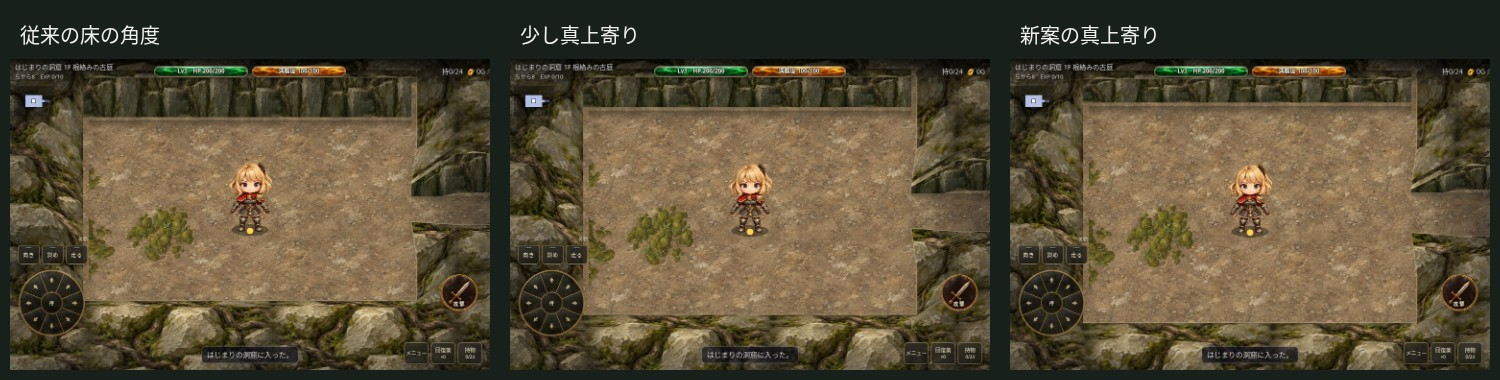
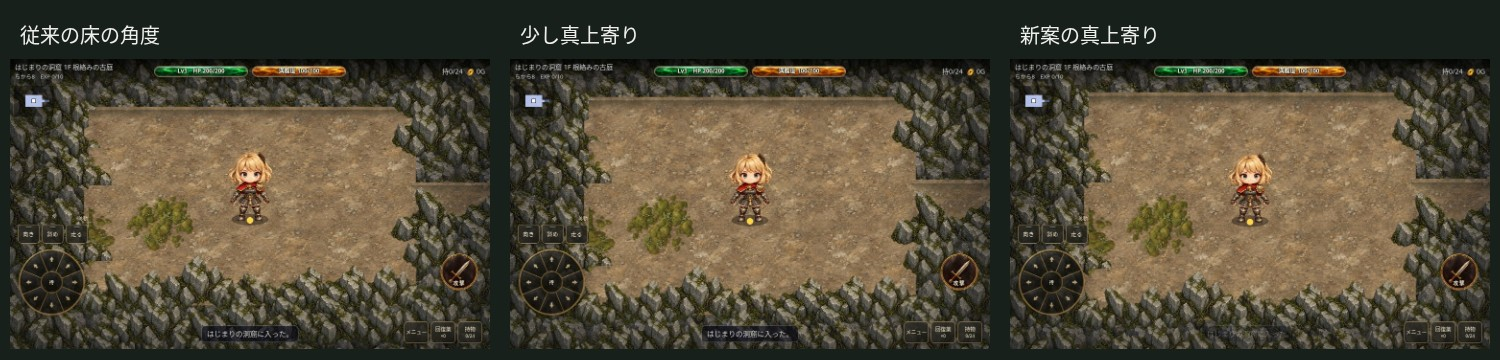
Revise garden cliffs against reference and composite foreground occlusion

diff --git a/assets/overgrown-garden.js b/assets/overgrown-garden.js
@@ -3,11 +3,12 @@
  'use strict';
  const theme=DungeonGenerator.themes.find(t=>t.id==='overgrown-garden');
  // Published view remains the default; study modes are selected in review only.
- const view={mode:'low',pitch:.82};
+ const view={mode:'low',pitch:.82,occlusion:'natural'};
  const profiles={low:{back:.24,front:.24},tall:{back:.48,front:.48},cutaway:{back:.56,front:.16},ridge:{back:.86,front:.40}};
  function configureView(patch){
   if(patch.mode!==undefined){if(!profiles[patch.mode])throw Error('unknown wall view');view.mode=patch.mode;}
   if(patch.pitch!==undefined){if(![.72,.82,.9,.94].includes(patch.pitch))throw Error('unknown ground projection');view.pitch=patch.pitch;}
+  if(patch.occlusion!==undefined){if(!['natural','fade','off'].includes(patch.occlusion))throw Error('unknown wall occlusion');view.occlusion=patch.occlusion;}
  }
  function vertexHeight(map,x,y){
   const p=profiles[view.mode],floor=(xx,yy)=>map[yy]?.[xx]!==undefined&&map[yy][xx]!==0;
@@ -26,10 +27,10 @@
  }
  function loadRidge(){
   if(art.ridgePromise)return art.ridgePromise;
-  art.ridgePromise=new Promise((resolve,reject)=>{
-   const image=new Image();image.onload=()=>{art.images.ridge=image;resolve();};image.onerror=()=>reject(Error('古庭の石積み画像を取得できません'));
-   image.src='fushigi-overgrown-garden-v1/source-art/garden-ridge.png';
-  });
+  art.ridgePromise=Promise.all(['ridge','rim'].map(key=>new Promise((resolve,reject)=>{
+   const image=new Image();image.onload=()=>{art.images[key]=image;resolve();};image.onerror=()=>reject(Error('古庭の石積み画像を取得できません: '+key));
+   image.src='fushigi-overgrown-garden-v1/source-art/garden-'+key+'.png';
+  })));
   return art.ridgePromise;
  }
  // Blend only opposing texture edges, retaining the generated painted interior.
@@ -130,47 +131,46 @@
   triangle(b,c,d,[c[0]-d[0],c[1]-d[1],c[0]-b[0],c[1]-b[1],b[0]+d[0]-c[0],b[1]+d[1]-c[1]]);
   g.restore();
  }
- function wall(g,px,py,size,h,{map,x,y}){
+ function wall(g,px,py,size,h,{map,x,y,seed=0,foreground=false}){
   const ridge=view.mode==='ridge'&&art.images.ridge;
   const f=(xx,yy)=>map[yy]?.[xx]!==undefined&&map[yy][xx]!==0;
-  const groundCorner=(vx,vy)=>{
-   let ix=0,iy=0;
-   if(ridge){
-    // Narrow recesses belong to the wall cell. Shared corner positions keep
-    // their outlines joined; the front rim no longer sits under the hero's feet.
-    if(f(vx-1,vy-1)||f(vx,vy-1))iy+=.25;
-    if(f(vx-1,vy)||f(vx,vy))iy-=.08;
-    if(f(vx-1,vy-1)||f(vx-1,vy))ix+=.12;
-    if(f(vx,vy-1)||f(vx,vy))ix-=.12;
+  if(ridge){
+   // The rejected version joined a different, magnified top texture to a row
+   // of tiny columns. Here every visible upright is one coherent generated
+   // volume, including its own top, side and transparent outline.
+   g.save();g.imageSmoothingEnabled=true;
+   if(!foreground){
+    surface(g,'soil',x,y,px,py,size,h,3);
+    const nx=f(x,y-1)?h*.18:0,sx=f(x,y+1)?h*.08:0,wx=f(x-1,y)?size*.10:0,ex=f(x+1,y)?size*.10:0;
+    g.save();g.beginPath();g.rect(px+wx,py+nx,size-wx-ex,h-nx-sx);g.clip();surface(g,'ridgeTop',x,y,px,py,size,h,2);g.restore();
    }
-   return [px+(vx-x+ix)*size,py+(vy-y+iy)*h];
-  };
-  const ground=[groundCorner(x,y),groundCorner(x+1,y),groundCorner(x+1,y+1),groundCorner(x,y+1)];
+   if(art.images.rim){
+    const image=art.images.rim,cw=image.width/2,ch=image.height/2,n=hash(x,y,seed),index=n%4;
+    const scale=.88+((n>>>5)%25)/100,w=size*1.8*scale,hh=w/1.5;
+    const dx=(((n>>>12)%21)-10)/100*size,dy=(((n>>>18)%9)-4)/100*h;
+    g.drawImage(image,(index%2+.035)*cw,(Math.floor(index/2)+.05)*ch,cw*.93,ch*.90,px+size*.5-w*.5+dx,py+h*.48-hh+dy,w,hh);
+   }
+   g.restore();return true;
+  }
+  const ground=[[px,py],[px+size,py],[px+size,py+h],[px,py+h]];
   const rises=[vertexHeight(map,x,y),vertexHeight(map,x+1,y),vertexHeight(map,x+1,y+1),vertexHeight(map,x,y+1)].map(v=>v*size*verticalProjection());
   const top=ground.map(([xx,yy],i)=>[xx,yy-rises[i]]);
   g.save();
   g.imageSmoothingEnabled=true;
   // Fill the short vertical band under the cap too: it must stay opaque when
   // adjoining a room corner or a freshly blasted opening.
-  const nearFloor=ridge&&[-1,0,1].some(dy=>[-1,0,1].some(dx=>f(x+dx,y+dy)));
-  surface(g,ridge?(nearFloor?'soil':'ridgeInterior'):'top',x,y,px,py,size,h,ridge&&nearFloor?3:4);
+  if(!foreground)surface(g,'top',x,y,px,py,size,h,4);
   if(f(x,y+1)){
-   const face=texture(ridge?'ridgeFace':'face'),span=ridge?2:4,part=face.width/span;
+   const face=texture('face'),span=4,part=face.width/span;
    const side=[top[3],top[2],ground[2],ground[3]];
    // Preserve material proportions instead of squeezing an entire tall block
    // into a thin horizontal strip.
-   quad(g,face,(x%span)*part,ridge?64:32,part,64,side);
+   quad(g,face,(x%span)*part,32,part,64,side);
    const shade=g.createLinearGradient(0,py+h-Math.max(rises[2],rises[3]),0,py+h);shade.addColorStop(0,'#18221835');shade.addColorStop(1,'#10180e95');
    g.fillStyle=shade;g.beginPath();g.moveTo(...side[0]);for(const pt of side.slice(1))g.lineTo(...pt);g.closePath();g.fill();
   }
-  const tile=texture(ridge?'ridgeTop':'top'),part=tile.width/4;
+  const tile=texture('top'),part=tile.width/4;
   quad(g,tile,(x%4)*part,(y%4)*part,part,part,top);
-  if(ridge&&f(x,y+1)){
-   // A shallow crown distinguishes the standing edge from the wall's rocky
-   // interior. Adjacent cells share the same world-space band and vertices.
-   const cap=texture('ridgeCap'),depth=h*.2;
-   quad(g,cap,(x%2)*128,0,128,24,[[top[3][0],top[3][1]-depth],[top[2][0],top[2][1]-depth],top[2],top[3]]);
-  }
   // Restrict edge accents to actual exposed boundaries, never tile seams.
   g.lineWidth=Math.max(1,size*.018);g.strokeStyle='#c4b99890';g.beginPath();
   if(f(x,y-1)){g.moveTo(...top[0]);g.lineTo(...top[1]);}
@@ -178,6 +178,30 @@
   if(f(x,y+1)){g.moveTo(...top[3]);g.lineTo(...top[2]);}
   g.stroke();
   g.restore();return true;
+ }
+ const foregroundEnabled=()=>view.mode==='ridge'&&view.occlusion!=='off'&&!!art.images.rim;
+ function foregroundTiles({map,x0,x1,y0,y1,subjects}){
+  if(!foregroundEnabled())return [];
+  const tiles=[];
+  for(let y=y0;y<=y1;y++)for(let x=x0;x<=x1;x++){
+   if(map[y]?.[x]!==0)continue;
+   if(subjects.some(e=>Math.abs(x-(e.vx??e.x))<1.8&&y>=(e.vy??e.y)-1&&y<=(e.vy??e.y)+2))tiles.push({x,y,depth:y+.48});
+  }
+  return tiles;
+ }
+ let fadeLayer;
+ function drawForeground(g,{map,x,y,size,camX,camY,seed,observer}){
+  const h=size*view.pitch,px=camX+x*size,py=camY+y*h;
+  if(view.occlusion!=='fade'||Math.abs(x-observer.vx)>1.5||y<observer.vy||y>observer.vy+2){wall(g,px,py,size,h,{map,x,y,seed,foreground:true});return;}
+  if(!fadeLayer)fadeLayer=document.createElement('canvas');
+  const extent=Math.ceil(size*3);if(fadeLayer.width!==extent)fadeLayer.width=fadeLayer.height=extent;
+  const fg=fadeLayer.getContext('2d');fg.clearRect(0,0,extent,extent);
+  const ox=px-size,oy=py-size*1.5;
+  wall(fg,px-ox,py-oy,size,h,{map,x,y,seed,foreground:true});
+  fg.save();fg.globalCompositeOperation='destination-out';
+  const cx=camX+(observer.vx+.5)*size-ox,cy=camY+(observer.vy+.9)*h-size*.45-oy;
+  const fade=fg.createRadialGradient(cx,cy,size*.10,cx,cy,size*.85);fade.addColorStop(0,'#000a');fade.addColorStop(1,'#0000');
+  fg.fillStyle=fade;fg.fillRect(0,0,extent,extent);fg.restore();g.drawImage(fadeLayer,ox,oy);
  }
  const original=CaveTerrain.draw;
  CaveTerrain.draw=function(g,key,px,py,size,options){
@@ -202,5 +226,5 @@
  };
  // Both the normal floor rotation and review catalog include the garden.
  DungeonGenerator.locations=DungeonGenerator.themes;
- root.OvergrownGarden={theme,plan,cell,art,load,loadRidge,texture,view,profiles,configureView,vertexHeight};
+ root.OvergrownGarden={theme,plan,cell,art,load,loadRidge,texture,view,profiles,configureView,vertexHeight,foregroundEnabled,foregroundTiles,drawForeground};
 })(typeof window==='undefined'?globalThis:window);

diff --git a/fushigi-overgrown-garden-v1/index.html b/fushigi-overgrown-garden-v1/index.html
@@ -3,7 +3,7 @@
 <style>
 body{margin:0;background:#141b18;color:#e5dfcd;font:14px system-ui,sans-serif;display:flex;flex-direction:column;height:100dvh}header{padding:10px;display:flex;gap:8px;align-items:center;flex-wrap:wrap;flex-shrink:0}h1{font-size:17px;margin:0 10px 0 0}button,select{font:inherit;color:inherit;background:#29382e;border:1px solid #6d7d65;border-radius:6px;padding:6px 10px}p{margin:0;padding:0 10px 8px;font-size:12px;color:#c0c8b6;flex-shrink:0}iframe{display:block;width:100%;flex:1;min-height:180px;border:0}#status{color:#e1cb91}button:disabled{opacity:.4}
 </style></head><body>
-<header><h1>根絡みの古庭</h1><select id="look" aria-label="景観"><option value="overgrown-garden">新しい古庭</option><option value="ruins">従来の遺跡と比較</option></select><select id="height" aria-label="壁の高さ"><option value="low">公開中の低い壁</option><option value="tall">全体を高くする</option><option value="cutaway">奥を高く・手前を低く</option><option value="ridge" selected>新案：立ち上がる石積み</option></select><select id="angle" aria-label="見下ろし方"><option value="0.82">現在の見下ろし方</option><option value="0.72">少し横から見る</option><option value="0.9">少し真上から見る</option><option value="0.94" selected>新案：真上寄り</option></select><button id="next" disabled>別の階</button><button id="room" disabled>別の部屋</button><button id="grid" disabled>マス境界</button></header>
+<header><h1>根絡みの古庭</h1><select id="look" aria-label="景観"><option value="overgrown-garden">新しい古庭</option><option value="ruins">従来の遺跡と比較</option></select><select id="height" aria-label="壁の高さ"><option value="low">公開中の低い壁</option><option value="tall">全体を高くする</option><option value="cutaway">奥を高く・手前を低く</option><option value="ridge" selected>新案：立ち上がる石積み</option></select><select id="angle" aria-label="見下ろし方"><option value="0.82">現在の見下ろし方</option><option value="0.72">少し横から見る</option><option value="0.9">少し真上から見る</option><option value="0.94" selected>新案：真上寄り</option></select><select id="overlap" aria-label="壁の重なり"><option value="natural">手前の壁で自然に隠れる</option><option value="fade">近くの壁を薄くする</option><option value="off">比較：キャラを常に前へ</option></select><button id="next" disabled>別の階</button><button id="room" disabled>別の部屋</button><button id="grid" disabled>マス境界</button></header>
 <p>同じ地形・キャラ位置で壁の高さと見下ろし方を比較。奥と手前の高低差は角でもつながるよう調整しています。専用生成素材・本編と独立した保存を使用します。</p>
 <p id="status" role="status">読み込み中…</p><p>確認用の独立セーブ。本編の冒険・持ち物には影響しません。画面内でそのまま操作できます。</p>
 <iframe id="game" title="古庭のプレイ確認"></iframe>
@@ -12,7 +12,7 @@ const $=id=>document.getElementById(id),frame=$('game');let seed=55433,roomIndex
 const run=code=>frame.contentWindow.eval(code);
 function status(){const d=run('({style:floorPlan.style,rooms:rooms.length,kind:OvergrownGarden.plan(rooms[window.gardenRoom||0],floorPlan.artSeed).kind})');$('status').textContent=`地形 ${seed} ／ ${d.style} ／ ${d.rooms}部屋 ／ この部屋：${{moss:'苔のたまり',roots:'壁際の根',rubble:'崩れ石'}[d.kind]}`;}
 function apply(){run('floorPlan.theme='+($('look').value==='overgrown-garden'?'OvergrownGarden.theme':"DungeonGenerator.themes.find(t=>t.id==='ruins')")+'; visibilityRevision++;render()');status();}
-function view(){run('OvergrownGarden.configureView('+JSON.stringify({mode:$('height').value,pitch:Number($('angle').value)})+');visibilityRevision++;render()');}
+function view(){run('OvergrownGarden.configureView('+JSON.stringify({mode:$('height').value,pitch:Number($('angle').value),occlusion:$('overlap').value})+');visibilityRevision++;render()');}
 frame.onload=async()=>{
  if(!frame.srcdoc)return;
  try{
@@ -26,7 +26,7 @@ frame.onload=async()=>{
  }catch(e){$('status').textContent=e.message;}
 };
 $('look').onchange=apply;
-$('height').onchange=view;$('angle').onchange=view;
+$('height').onchange=view;$('angle').onchange=view;$('overlap').onchange=view;
 $('next').onclick=()=>{seed+=7919;roomIndex=0;run(`window.gardenSeed=${seed};window.gardenRoom=0;newFloor();player.hp=player.maxhp=200;`);apply();};
 $('room').onclick=()=>{roomIndex=(roomIndex+1)%run('rooms.length');run(`(()=>{window.gardenRoom=${roomIndex};const r=rooms[${roomIndex}];player.x=player.vx=r.cx;player.y=player.vy=r.cy;updateVis();render();})()`);status();};
 $('grid').onclick=()=>run('window.gardenGrid=!window.gardenGrid;render()');

diff --git a/index.html b/index.html
@@ -2589,6 +2589,7 @@ function draw() {
   const x0 = Math.max(0, Math.floor(-camX / TS)), x1 = Math.min(MW - 1, Math.ceil((innerWidth - camX) / TS));
   const y0 = Math.max(0, Math.floor(-camY / tilePitchY()) - 1), y1 = Math.min(MH - 1, Math.ceil((innerHeight - camY) / tilePitchY()) + 1);
   const dungeon = scene === 'dungeon', m = SHADE_K[shadePref];
+  const gardenDepth=dungeon&&floorPlan?.theme?.id==='overgrown-garden'&&typeof OvergrownGarden!=='undefined'&&OvergrownGarden.foregroundEnabled();
   const townArt = scene === 'town' && SPRITES.town;
   if (townArt) drawTownArt(camX, camY);                                          // 町は一枚絵（判定は内部の格子のまま）
   for (let y = y0; y <= y1 && !townArt; y++) for (let x = x0; x <= x1; x++) {
@@ -2611,7 +2612,8 @@ function draw() {
     ctx.strokeStyle = TRAPS[tr.kind].col; ctx.lineWidth = Math.max(2, TS * 0.07); ctx.stroke();
     ctx.fillStyle = TRAPS[tr.kind].col; ctx.font = 'bold ' + Math.round(TS * 0.34) + 'px monospace'; ctx.textAlign = 'center'; ctx.textBaseline = 'middle'; ctx.fillText('!', cx, cy + 1);
   }
-  for (const f of floorItems) if (seen[f.y][f.x]) blit(iconOf(f.item.type), camX + f.x * TS, camY + f.y * tilePitchY() + tilePitchY() - TS);
+  const drawFloorItem=f=>blit(iconOf(f.item.type),camX+f.x*TS,camY+f.y*tilePitchY()+tilePitchY()-TS);
+  for (const f of floorItems) if (seen[f.y][f.x]&&(!gardenDepth||!vis[f.y][f.x])) drawFloorItem(f);
   // 描画順：奥（上）から手前（下）へ。主人公より手前（下）にいる敵・味方・店主は、主人公の後に描く（主人公が手前の味方を踏んで見えないように）
   const worldEnts = [...enemies,...(AllySystem.state.actor?[AllySystem.state.actor]:[]),...(dungeon?ShopSystem.keepers().filter(k=>k.hp>0):[])].sort((a,b)=>a.vy-b.vy);
   const inFront = e => e.vy > player.vy && e.vy - player.vy < 1.2 && Math.abs(e.vx - player.vx) < 1.2;
@@ -2631,16 +2633,28 @@ function draw() {
       ctx.fillStyle = '#000'; ctx.fillText(mk[0], px + TS / 2 + 1, py - TS * 0.45 + 1); ctx.fillStyle = mk[1]; ctx.fillText(mk[0], px + TS / 2, py - TS * 0.45);
     }
   };
-  for (const e of worldEnts) if (!inFront(e)) drawEnt(e);
+  for (const e of worldEnts) if (!gardenDepth&&!inFront(e)) drawEnt(e);
   if(dungeon)DungeonExperience.fog(ctx,{width:innerWidth,height:innerHeight,size:TS,pitch:tilePitchY(),camX,camY,player,rooms,roomIndex:playerRoom(),roomGrid,map,seen,theme:floorPlan?.theme?.id,terrain:CaveTerrain,revision:visibilityRevision,seed:floorPlan?.artSeed});
   if(dungeon)ShopSystem.prices(ctx,camX,camY);
   EventVfx.drawWorld(ctx,t,camX,camY,TS,tilePitchY(),'floor');
-  const [ppx, ppy] = drawEntity('player', player, t, camX, camY);
+  let ppx,ppy;
+  const drawPlayer=()=>{
+  [ppx,ppy] = drawEntity('player', player, t, camX, camY);
   ctx.save();ctx.globalAlpha=EventVfx.pose(player,t).alpha;
   ctx.fillStyle = '#ffd54a';                                                       // 向きの目印（Attackの狙い先）
   ctx.beginPath(); ctx.arc(ppx + TS / 2 + player.face[0] * TS * 0.42, ppy + tilePitchY() / 2 + player.face[1] * tilePitchY() * 0.42, Math.max(2, TS * 0.07), 0, Math.PI * 2); ctx.fill();
   ctx.restore();
-  for (const e of worldEnts) if (inFront(e)) drawEnt(e);                          // 主人公より手前にいる者は、主人公の上に描く
+  };
+  if(gardenDepth){
+    const visibleActors=worldEnts.filter(e=>vis[e.y]?.[e.x]),visibleItems=floorItems.filter(f=>seen[f.y]?.[f.x]&&vis[f.y]?.[f.x]);
+    const subjects=[player,...visibleActors,...visibleItems];
+    const queue=[{depth:player.vy+.9,draw:drawPlayer},...visibleActors.map(e=>({depth:e.vy+.9,draw:()=>drawEnt(e)})),...visibleItems.map(f=>({depth:f.y+.9,draw:()=>drawFloorItem(f)}))];
+    for(const tile of OvergrownGarden.foregroundTiles({map,x0,x1,y0,y1,subjects}))queue.push({depth:tile.depth,draw:()=>OvergrownGarden.drawForeground(ctx,{map,...tile,size:TS,camX,camY,seed:floorPlan.artSeed,observer:player})});
+    queue.sort((a,b)=>a.depth-b.depth);for(const entry of queue)entry.draw();
+  }else{
+    drawPlayer();
+    for (const e of worldEnts) if (inFront(e)) drawEnt(e);                        // 主人公より手前にいる者は、主人公の上に描く
+  }
   const under = dungeon ? itemAt(player.x, player.y) : null;                       // 足元のアイテム名
   if (under) {
     ctx.font = '12px monospace'; ctx.textAlign = 'center'; ctx.textBaseline = 'top';

diff --git a/fushigi-overgrown-garden-v1/check_height_study.py b/fushigi-overgrown-garden-v1/check_height_study.py
@@ -57,6 +57,26 @@ with sync_playwright() as p:
     for name, x, y in [('back', 7, 3), ('front', 7, 7), ('door', 10, 5)]:
         frame.evaluate(f'player.x=player.vx={x};player.y=player.vy={y};updateVis();render()')
         frame.locator('body').screenshot(path=str(OUT / f'study-near-{name}.jpg'), type='jpeg', quality=90)
+    frame.evaluate('player.x=player.vx=7;player.y=player.vy=7;updateVis();render()')
+    overlap = frame.evaluate('''() => {
+      const hero=ApprovedHero.draw;
+      const image=()=>new Uint8ClampedArray(ctx.getImageData(0,0,innerWidth,innerHeight).data);
+      const pair=mode=>{
+        OvergrownGarden.configureView({occlusion:mode});draw();const yes=image();
+        try{ApprovedHero.draw=()=>{};draw();return [yes,image()];}finally{ApprovedHero.draw=hero;}
+      };
+      const delta=(a,b,i)=>Math.abs(a[i]-b[i])+Math.abs(a[i+1]-b[i+1])+Math.abs(a[i+2]-b[i+2]);
+      const [a,b]=pair('off'),[c,d]=pair('natural'),[e,f]=pair('fade');
+      let baseline=0,natural=0,fade=0;
+      for(let i=0;i<a.length;i+=4)if(delta(a,b,i)>25){baseline++;if(delta(c,d,i)>25)natural++;if(delta(e,f,i)>25)fade++;}
+      if(!(baseline>100&&natural<baseline*.95&&natural>baseline*.1&&fade>natural))throw Error('foreground wall did not partially occlude hero correctly: '+[baseline,natural,fade]);
+      OvergrownGarden.configureView({occlusion:'natural'});draw();
+      return {baselinePixels:baseline,naturalVisiblePixels:natural,fadeVisiblePixels:fade};
+    }''')
+    for mode in ['off', 'natural', 'fade']:
+        page.select_option('#overlap', mode)
+        frame.locator('body').screenshot(path=str(OUT / f'study-overlap-{mode}.jpg'), type='jpeg', quality=90)
+    page.select_option('#overlap', 'natural')
     page.set_viewport_size({'width': 390, 'height': 844})
     frame.locator('body').screenshot(path=str(OUT / 'study-ridge-portrait.jpg'), type='jpeg', quality=90)
     assert not errors, errors
@@ -67,14 +87,15 @@ with sync_playwright() as p:
         ('angle-comparison', [('少し横から', 'study-angle-072.jpg'), ('現在の見下ろし方', 'study-angle-082.jpg'), ('少し真上から', 'study-angle-090.jpg')]),
         ('ridge-comparison', [('公開版の高さ・角度', 'study-low.jpg'), ('高さだけ変えた案', 'study-tall.jpg'), ('真上寄り＋立ち上がる石積み', 'study-ridge.jpg')]),
         ('ridge-angle-comparison', [('従来の床の角度', 'study-angle-082.jpg'), ('少し真上寄り', 'study-angle-090.jpg'), ('新案の真上寄り', 'study-angle-094.jpg')]),
+        ('occlusion-comparison', [('比較：キャラを常に前へ', 'study-overlap-off.jpg'), ('輪郭で自然に隠れる', 'study-overlap-natural.jpg'), ('隠れる部分を薄くする案', 'study-overlap-fade.jpg')]),
     ]:
         page.goto('http://127.0.0.1:8000/fushigi-overgrown-garden-v1/')
         page.set_content('<html lang="ja"><style>body{margin:0;background:#18201b;color:#eee;font:20px sans-serif}main{display:flex}figure{margin:10px;width:480px}img{width:480px;display:block}figcaption{padding:10px}</style><main>'+''.join(f'<figure><figcaption>{label}</figcaption><img src="http://127.0.0.1:8000/fushigi-overgrown-garden-v1/{file}"></figure>' for label,file in files)+'</main></html>')
         page.wait_for_function('Array.from(document.images).every(i=>i.complete&&i.naturalWidth>0)')
         page.locator('main').screenshot(path=str(OUT / f'{name}.jpg'), type='jpeg', quality=90)
     result = {'status': 'passed', 'views': 16, 'topologiesPerView': 256, 'gapChecks': 4096,
-              'gameplayUnchanged': True, 'nearWallAndDoor': True, 'portrait': True,
-              'referenceReview': 'five user-supplied Shiren 6 screenshots observed directly; exact camera angle and internal renderer are not established', 'captures': captures}
+              'gameplayUnchanged': True, 'nearWallAndDoor': True, 'portrait': True, 'foregroundOcclusion': overlap,
+              'referenceReview': 'user-supplied Shiren 6 screenshots including neutral gray cliff reference observed directly; exact camera angle and internal renderer are not established', 'captures': captures}
     (OUT / 'height-study-validation.json').write_text(json.dumps(result, ensure_ascii=False, indent=2)+'\n')
     print(json.dumps(result, ensure_ascii=False))
     browser.close()

diff --git a/fushigi-overgrown-garden-v1/WALL_HEIGHT_STUDY.md b/fushigi-overgrown-garden-v1/WALL_HEIGHT_STUDY.md
@@ -1,59 +1,43 @@
-# 壁の高さ・見下ろし方の比較（2026-10-23）
+# 壁造形・床投影・遮蔽の比較（2026-10-23）
 
-ユーザーがチャットへ添付したシレン6の5枚を直接観察し、床投影と壁造形をセットで比較する段階。
+ユーザー添付のシレン6画面を直接観察して検討する。灰色の岩場「鈴なり峠」は色・形の主な参照。竹林・火山・洞窟では境界の造形が異なる。正確なカメラ角や透過の内部実装は静止画から断定しない。参照作品の画像をゲーム素材に流用していない。
 
-観察：1枚目のマス表示では床がかなり正方形に近く見える。洞窟画像では細長い岩・鍾乳石の起伏と陰影が高さの手掛かりになっており、幅広い平面と短い側面だけではない。花と水面の画像は低い縁、海中の画像は岩とサンゴで境界を作り、場所ごとに構造が異なる。手前にも高い岩が見える画像があり、「手前はすべて低い」とは断定できない。画像の縮小・拡縮があり得るので正確な角度や内部実装は測定したと扱わない。
+## 今回の修正
 
-前段階の公式記事取得はプロキシ403だったが、今回の検討は添付された画面で進められる。次のURLは過去資料の出典として残す。
+前案は、明るい同じ高さの柱が柵のように並び、巨大な上面の岩と細い柱の縮尺も一致していなかった。`rejected-white-pillars.jpg` はこの不採用案の実画面。
 
-- 任天堂：https://www.nintendo.com/jp/topics/article/5ec539ee-1e2c-47cd-abd2-e8e6443d9f8f
-- スパイク・チュンソフト：https://www.spike-chunsoft.co.jp/news/27997/
-- 過去の制作記録：`fushigi-locations-v1/README.md`、`fushigi-wall-relief-v1/README.md`
+修正版は、彩度を抑えた灰色の角張った岩群と、隙間の暗い苔を生成した。上面・側面・輪郭を一体で描いた透過岩群を、同じ縮尺で壁内部にも縁にも重ねる。4形状に決定的な縮尺・位置の変化を加える。別材質の大きな平面へ小さな柱を貼る前案は廃止。元の生成PNGは加工せず保存し、実行時にアトラスから描画する。プロンプトと原画の出自は `ridge-generation-record.json`、ハッシュは `source-art/manifest.json`。
 
-## 新案：真上寄り＋立ち上がる石積み
+壁床の基底と輪郭は現在のマップから描き、衝突・通路幅・視界・乱数を変更しない。キャラ、見えている道具、近くの前景壁を足元の奥行きで合成する。手前の岩はキャラの上に部分的に被る。「自然な遮蔽」「主人公付近だけ透過」「遮蔽なし」を比較できる。透過は局所的なアルファマスクであり、壁全体を薄くしない。
 
-新しい生成原画 `source-art/garden-ridge.png` の立った石積み側面／起伏のある岩冠／岩と根の内部／浅い天端を使う。広い平らな台に見える材質を、凸面・稜線・隙間のある岩と根へ置き換える。正確なプロンプトと出自は `ridge-generation-record.json`。
+実際の部屋全体・入口・手前・縦画面を目視した。前案の柱列と上面の不一致は改善したが、岩群の反復と壁床の直線的な境界は今後も確認対象。
 
-床の縦ピッチ0.94と石積みの高さをセットにした候補。マスは正方形に近づくが、1.0にはせず若干の奥行きを残す。新案はモード `ridge` で選択する。通常ゲームの既定値は公開版のまま。確認ページだけ新案を初期選択する。
+## 比較設定
 
-壁上面は共有頂点の形状で接続する。新案では床際を壁マスの内側へ少し寄せ、特に手前の縁が主人公の足元と重なって石の上に立って見える問題を軽減する。ここは描画上のくぼみであり、通行可能な追加マスではない。マス境界表示で論理的な壁との対応を確認できる。元の壁のマス・衝突・通路幅・視界は変更しない。
+通常ゲームは公開済みの低壁・床ピッチ0.82を維持。確認ページだけ `ridge`・0.94を初期選択し、実セーブを隔離する。ほかのロケーションへ適用しない。
 
-## 比較できるもの
+| 案 | 造形 |
+|---|---|
+| 低い壁 | 共有頂点の上面・側面、立ち上がり0.24タイル幅 |
+| 高い壁 | 同0.48 |
+| 奥を高く手前を低く | 同0.56／0.16 |
+| 岩塊 ridge | 生成された一体の岩群。旧3案の数値的な高さモデルとは異なる |
 
-確認ページの「壁の高さ」と「見下ろし方」は古庭だけに適用される。通常起動時の既定は公開版と同じ低い壁・縦ピッチ0.82。変更は保存せず、ほかの5ロケーションのカメラにも適用しない。
+床の縦ピッチは0.72／0.82／0.90／0.94。旧3案は床投影に合わせ高さ方向も補正する。ridgeは生成画像自体が上面と側面を持つため、投影切替は床の間隔を変える比較であり、物理的な同一カメラの再現ではない。キャラ画像の縦横比は維持する。
 
-| 案 | 奥の壁 | 手前の壁 | 目的 |
-|---|---:|---:|---|
-| 公開中の低い壁 | 0.24 | 0.24 | 現状との比較 |
-| 全体を高くする | 0.48 | 0.48 | 高さだけを変えた場合 |
-| 奥を高く・手前を低く | 0.56 | 0.16 | 囲まれ感と手前の読みやすさの比較 |
-| 立ち上がる石積み | 0.86 | 0.40 | 新しい立体的な材質と床ピッチ0.94を組み合わせる |
+## 実画面
 
-値は基準ピッチ0.82での画面上の立ち上がり／タイル幅。床の縦ピッチは0.72／0.82／0.90／0.94。仮に直交投影と考えると `pitch = sin(俯角)`、高さ方向は `cos(俯角)` なので、角度の切替時は立ち上がりも同じモデルで補正し、物理的な壁高が変わって見える混同を避ける。これらの俯角は本家の測定値ではない。キャラ画像の縦横比は維持し、足元・床・道具・VFX・視界には同じピッチを渡す。
+- [修正後・部屋全体](study-ridge.jpg)
+- [手前の壁とキャラ](study-near-front.jpg)
+- [入口](study-near-door.jpg)
+- [縦画面](study-ridge-portrait.jpg)
+- [遮蔽・局所透過の比較](occlusion-comparison.jpg)
+- [公開版／高さだけ／新造形](ridge-comparison.jpg)
+- [新造形の床投影比較](ridge-angle-comparison.jpg)
+- [不採用だった白い柱列](rejected-white-pillars.jpg)
 
-壁の角はワールド座標の共有頂点で高さを決め、隣の壁と同じ辺を使う。床の北にある奥側は高く、床の南にある手前側は低くし、内側へ傾斜でつなぐ。上面と側面は生成材質を四角形へ写像する。マスごとに別の高さを切り替えて段差を作る方式は採らない。
+## 検証
 
-## 今後も画面で確認する点
+HTTP配信中に `python3 fushigi-overgrown-garden-v1/check_height_study.py`。同じ7×5の部屋・主人公で比較画像を生成する。16設定×256近傍地形＝4,096件の不透明な基底を確認。ゲーム状態の維持と、主人公画像の有無によるピクセル差分で前景遮蔽／透過を確認する。この接続検証だけでは輪郭の自然さや本家との一致を保証しない。
 
-- 床の横1マスと縦1マスの見かけの比。数種類の地形で同じか。
-- キャラの足元を基準にした壁の接地位置、上面の奥行き、見えている側面の高さ。
-- 奥・手前・左右の壁の違い。低くする／隠す／透過する挙動は静止画と動画を区別して確認する。
-- 入口、内角、外角、1マス通路での連続性。キャラが手前の壁に近づいたときの見え方。
-
-公開画像だけで内部実装や正確なカメラ角を断定せず、観察できた結果をFushigiの2D描画へ取り込む。公式画像は参照だけに使い、ゲーム素材へ流用しない。
-
-## 再現・検証
-
-HTTP配信したチェックアウトで `python3 fushigi-overgrown-garden-v1/check_height_study.py`。同じ7×5の部屋、キャラ、足元、アイテム・敵なしの条件で比較画像を生成する。
-
-- [公開版／高さだけ／新造形の比較](ridge-comparison.jpg)
-- [新造形で床投影を比較](ridge-angle-comparison.jpg)
-- [新案の全画面](study-ridge.jpg)
-- [以前の高さ3案](height-comparison.jpg)
-- [見下ろし方3案](angle-comparison.jpg)
-- [奥の壁に近づく](study-near-back.jpg)
-- [手前の壁に近づく](study-near-front.jpg)
-- [入口に近づく](study-near-door.jpg)
-- [新案・縦画面](study-ridge-portrait.jpg)
-
-16設定×256近傍地形＝4,096件で不透明な描画の連結を確認し、表示の切替でマップ・キャラ・内容物を変更しないことも確認する。`height-study-validation.json` はこの検証の結果。視覚的な適切さやシレン6との一致を、この自動チェックだけで保証するものではない。
+`check_browser.py` は既存3主題・縦横・保存・実セーブ分離・壁破壊・通常6階と再読込を確認する。main反映・公開はこの比較案では未実施。

diff --git a/docs/HANDOVER.md b/docs/HANDOVER.md
@@ -4,7 +4,7 @@
 
 ## 1. 結論（いまの状態）
 
-- **古庭の床投影・立ち上がる石積み比較（2026-10-23、作業ブランチ）**：ユーザー添付のシレン6画面5枚を直接観察。正方形に近い床・岩の起伏・場所ごとの境界の違いを参考に、床ピッチ0.94と専用の起伏ある石積み生成原画を組み合わせた `ridge` 案を追加。壁の形状を共有頂点で接続し、床際のくぼみで主人公の足元が手前の壁に重なって見える問題を軽減。既存の移動判定・通路幅は維持。壁造形4案×床投影4案＝16設定・4,096接続を検証。通常ゲームの既定は公開済み0.24マス高・ピッチ0.82のまま、確認ページだけ新案を初期選択。数値は本家の測定値ではない。詳細・生成原画・比較画像は `fushigi-overgrown-garden-v1/WALL_HEIGHT_STUDY.md`。この比較作業のmain反映・公開は未実施。
+- **古庭の壁造形・前後関係の再検討（2026-10-23、作業ブランチ）**：ユーザー指摘を受け、明るい均一な柱列と巨大な上面の不一致を不採用にした。添付の「鈴なり峠」を参考に、灰色の角張った岩塊と控えめな苔を再生成。`ridge` は上面・側面を一体で描いた透過岩群を重ねる方式へ変更。部屋全体・入口・手前・縦画面を実画像で確認。キャラ／可視アイテム／近くの前景壁を足元の奥行きで合成し、手前の岩がキャラへ部分的に被る。自然な遮蔽・主人公付近の透過・遮蔽なしを比較できる。4,096接続、描画切替によるゲーム状態維持、実ピクセルで遮蔽と透過を確認。通常ゲームの既定は公開済み低壁・ピッチ0.82のまま、確認ページだけ新案・0.94。詳細・原画・比較画像は `fushigi-overgrown-garden-v1/WALL_HEIGHT_STUDY.md`。main反映・公開は未実施。
 
 - **追加ロケーション「根絡みの古庭」（2026-10-23、反映・公開許可済み）**：ユーザーの「ロケーション追加で試す」「手描きコードの部分は生成」「壁のガタつきを直す」に対応。`assets/overgrown-garden.js` に分離。専用生成原画2枚（床・壁上面・側面の材質シート、根2種・苔・崩れ石の透過シート）を使用し、手描きコードによる根・苔・石の仮絵を廃止。部屋ごとの主題と寄せる壁、中央・入口・階段・店舗を空ける配置は維持。壁は全体0.24マス高で接続し、内部境界には側面・縁を描かない。生成材質を使い、旧画像の欠け・段差を除去。階段と画面外の天井は既存遺跡素材を再利用。`fushigi-overgrown-garden-v1/` に独立セーブ比較画面・原画・プロンプト・ハッシュ・確認画像。壁256接続／材質端・部屋配置100シード・実ブラウザ3主題／縦横／保存／壁破壊を確認。ユーザーの「反映と公開」により、本編の6番目のロケーションとして通常巡回に追加（6階・12階…）。通常6階での自動出現と再読込による途中復帰も確認。最新mainの描画順・移動補間・キー長押し修正を取り込み済み。公開処理の結果はGitHub Actionsのpages build and deploymentで確認する。
 
@@ -104,7 +104,7 @@ node tests/harness.js index.html tests/test_mvp.js      # ALL OK が出れば成
 
 ## 5. 次にやること（提案＝仮説。優先順）
 
-- 壁高の比較：添付されたシレン6の5画面を参考に作った新造形＋真上寄り案を、同じ地形・キャラ位置で確認して採用案を決める。ほかのロケーションへの展開はその後。
+- 壁造形の確認：修正後の灰色岩塊を同じ地形・キャラ位置で確認。規則的な反復、角と入口の輪郭、壁の高さ・キャラの被り量が適切かを実画像で比較する。透過は任意案で本家の内部実装と断定しない。採用後にほかのロケーションへの展開を検討。
 
 - 追加ロケーションのデザイン確認：`fushigi-overgrown-garden-v1/index.html` で根・苔・崩れ石の偏り、中央／入口の空き、壁の高さ・縁を縦横で比較する。配置ロジック100シード、実ブラウザ3主題・保存復元・本編セーブ分離・壁破壊後の描画を検証。専用生成原画と壁接続の修正版を見て、密度調整を判断する。通常巡回への追加はユーザー承認済み。
 
